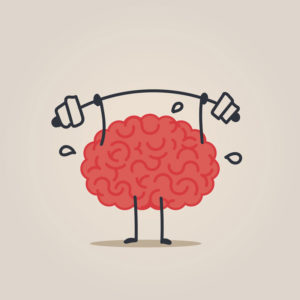
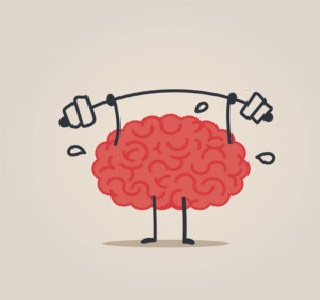
build_26_11_2018_1007

Changed region(s): [[0.15, 0.27, 0.87, 0.84], [0.3, 0.78, 0.33, 0.84]]

diff --git a/main.css b/main.css
@@ -12,7 +12,8 @@ header {
 	font-size: 36px;
 }
 .title {
-	margin: 100px 0 100px 30px;
+	width: 100%;
+	text-align: center;
 }
 .flex-container {
 	display: flex;	
@@ -28,6 +29,7 @@ header {
 	justify-content: flex-start;
 }
 .flex-container img {
+	width: 100%;
 	transition-duration: 0.5s;	
 	opacity: 1;
 }
